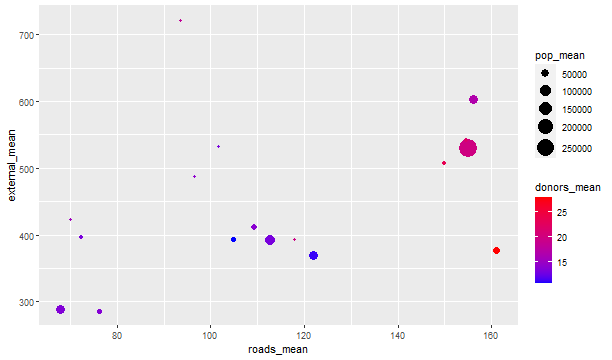
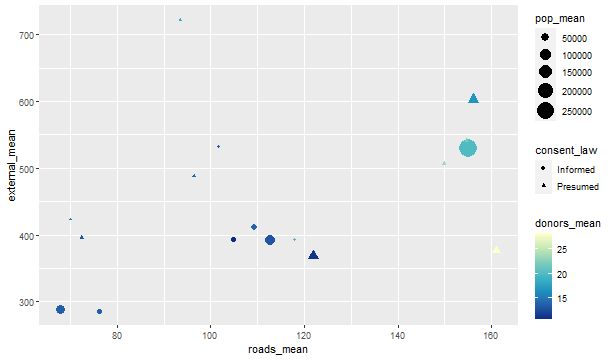
update lec 17

diff --git a/pstat10/lectures/Lec17.html b/pstat10/lectures/Lec17.html
@@ -4,7 +4,7 @@
     <title>Lecture 17: More on ggplot</title>
     <meta charset="utf-8" />
     <meta name="author" content="Robin Liu" />
-    <meta name="date" content="2022-07-19" />
+    <meta name="date" content="2022-07-20" />
     <script src="libs/header-attrs-2.14/header-attrs.js"></script>
     <link href="libs/remark-css-0.0.1/default.css" rel="stylesheet" />
     <link href="libs/remark-css-0.0.1/metropolis.css" rel="stylesheet" />
@@ -27,7 +27,7 @@ class: center, middle, inverse, title-slide
 ### UCSB
 ]
 .date[
-### 2022-07-19
+### 2022-07-20
 ]
 
 ---
@@ -42,24 +42,8 @@ install.packages("socviz")
 library(socviz)
 ```
 
----
-# Grouped data
-Recall whats in `gapminder`
+https://socviz.co/
 
-```r
-head(gapminder, 5)
-```
-
-```
-## # A tibble: 5 x 6
-##   country     continent  year lifeExp      pop gdpPercap
-##   &lt;fct&gt;       &lt;fct&gt;     &lt;int&gt;   &lt;dbl&gt;    &lt;int&gt;     &lt;dbl&gt;
-## 1 Afghanistan Asia       1952    28.8  8425333      779.
-## 2 Afghanistan Asia       1957    30.3  9240934      821.
-## 3 Afghanistan Asia       1962    32.0 10267083      853.
-## 4 Afghanistan Asia       1967    34.0 11537966      836.
-## 5 Afghanistan Asia       1972    36.1 13079460      740.
-```
 
 ---
 # Aesthetic mappings
@@ -72,7 +56,7 @@ p + geom_point(alpha = 0.3) +
     scale_x_log10(labels = scales::label_dollar())
 ```
 
-&lt;img src="Lec17_files/figure-html/unnamed-chunk-4-1.png" style="display: block; margin: auto;" /&gt;
+&lt;img src="Lec17_files/figure-html/unnamed-chunk-3-1.png" style="display: block; margin: auto;" /&gt;
 
 ---
 # Aesthetic mappings
@@ -85,7 +69,7 @@ p + geom_point(mapping = aes(x = gdpPercap, y=lifeExp), alpha = 0.3) +
     scale_x_log10(labels = scales::label_dollar())
 ```
 
-&lt;img src="Lec17_files/figure-html/unnamed-chunk-5-1.png" style="display: block; margin: auto;" /&gt;
+&lt;img src="Lec17_files/figure-html/unnamed-chunk-4-1.png" style="display: block; margin: auto;" /&gt;
 
 ---
 # Aesthetic mappings
@@ -108,7 +92,7 @@ p + geom_point(mapping = aes(x = gdpPercap, y=lifeExp), alpha = 0.3) +
 ## ! stat_smooth requires the following missing aesthetics: x and y
 ```
 
-&lt;img src="Lec17_files/figure-html/unnamed-chunk-6-1.png" style="display: block; margin: auto;" /&gt;
+&lt;img src="Lec17_files/figure-html/unnamed-chunk-5-1.png" style="display: block; margin: auto;" /&gt;
 
 The `x` and `y` aesthetics are *required* in `geom_smooth`.
 
@@ -124,7 +108,7 @@ p + geom_point(mapping = aes(x = gdpPercap, y=lifeExp), alpha = 0.3) +
     scale_x_log10(labels = scales::label_dollar())
 ```
 
-&lt;img src="Lec17_files/figure-html/unnamed-chunk-7-1.png" style="display: block; margin: auto;" /&gt;
+&lt;img src="Lec17_files/figure-html/unnamed-chunk-6-1.png" style="display: block; margin: auto;" /&gt;
 
 ---
 # Aesthetic mappings
@@ -139,7 +123,29 @@ p + geom_point(alpha = 0.3) +
     scale_x_log10(labels = scales::label_dollar())
 ```
 
-&lt;img src="Lec17_files/figure-html/unnamed-chunk-8-1.png" style="display: block; margin: auto;" /&gt;
+&lt;img src="Lec17_files/figure-html/unnamed-chunk-7-1.png" style="display: block; margin: auto;" /&gt;
+---
+class: inverse, center, middle
+# Grouped data
+---
+# Grouped data
+Recall whats in `gapminder`
+
+```r
+head(gapminder, 5)
+```
+
+```
+## # A tibble: 5 x 6
+##   country     continent  year lifeExp      pop gdpPercap
+##   &lt;fct&gt;       &lt;fct&gt;     &lt;int&gt;   &lt;dbl&gt;    &lt;int&gt;     &lt;dbl&gt;
+## 1 Afghanistan Asia       1952    28.8  8425333      779.
+## 2 Afghanistan Asia       1957    30.3  9240934      821.
+## 3 Afghanistan Asia       1962    32.0 10267083      853.
+## 4 Afghanistan Asia       1967    34.0 11537966      836.
+## 5 Afghanistan Asia       1972    36.1 13079460      740.
+```
+
 ---
 # Grouped data
 
@@ -270,8 +276,8 @@ p + geom_bar() +
 # Facets
 &lt;img src="Lec17_files/figure-html/unnamed-chunk-18-1.png" style="display: block; margin: auto;" /&gt;
 
-<div class="countdown" id="timer_62d78eb7" style="right:0;bottom:0;" data-warnwhen="0">
-<code class="countdown-time"><span class="countdown-digits minutes">01</span><span class="countdown-digits colon">:</span><span class="countdown-digits seconds">30</span></code>
+<div class="countdown" id="timer_62d832e3" style="right:0;bottom:0;" data-warnwhen="0">
+<code class="countdown-time"><span class="countdown-digits minutes">02</span><span class="countdown-digits colon">:</span><span class="countdown-digits seconds">00</span></code>
 </div>
 ---
 # geom_bar vs geom_col
@@ -279,7 +285,7 @@ p + geom_bar() +
 ```r
 gss_sm |&gt;
   ggplot(gss_sm, mapping = aes(y = fct_infreq(degree))) +
-    geom_bar()
+*  geom_bar() 
 ```
 
 &lt;img src="Lec17_files/figure-html/unnamed-chunk-19-1.png" style="display: block; margin: auto;" /&gt;
@@ -292,7 +298,7 @@ gss_sm |&gt;
   group_by(degree) |&gt;
   summarize(count = n()) |&gt;
   ggplot(mapping = aes(x = count, y = reorder(degree, count, decreasing = T))) +
-    geom_col()
+*  geom_col() 
 ```
 
 &lt;img src="Lec17_files/figure-html/unnamed-chunk-20-1.png" style="display: block; margin: auto;" /&gt;
@@ -506,12 +512,15 @@ p + geom_point() + geom_text_repel(mapping = aes(label = country))
 library(ggrepel)
 p &lt;- ggplot(data = by_country,
             mapping = aes(x = roads_mean, y = donors_mean))
-p + geom_point() + geom_text_repel(data = subset(by_country, donors_mean &gt; 22),
+p + geom_point() + geom_text_repel(data = filter(by_country, donors_mean &gt; 22),
                                    mapping = aes(label = country))
 ```
 
 &lt;img src="Lec17_files/figure-html/unnamed-chunk-33-1.png" style="display: block; margin: auto;" /&gt;
 
+---
+class: inverse, middle, center
+# Other aesthetics
 ---
 # Mapping other aesthetics
 
@@ -553,10 +562,11 @@ p + geom_point() + geom_text_repel(data = subset(by_country, donors_mean &gt; 22
 ```r
 p &lt;- ggplot(data = by_country,
             mapping = aes(x = roads_mean, y = external_mean,
-                          color = donors_mean, size = pop_mean))
+                          color = donors_mean, size = pop_mean,
+                          shape = consent_law))
 p + geom_point() +
   scale_size_area(max_size = 8) +
-  scale_colour_gradient(low = "blue", high = "red")
+  scale_colour_distiller(palette = "YlGnBu")
 ```
 
 &lt;img src="Lec17_files/figure-html/unnamed-chunk-35-1.png" style="display: block; margin: auto;" /&gt;
@@ -570,7 +580,7 @@ organdata |&gt;
   summarize(donors_mean = mean(donors, na.rm = T)) |&gt;
   ggplot(mapping = aes(x = donors_mean, y = country, fill = world)) +
     geom_col() +
-    scale_fill_brewer(type = "qual", palette = 7)
+    scale_fill_brewer(type = "qual")
 ```
 
 &lt;img src="Lec17_files/figure-html/unnamed-chunk-36-1.png" style="display: block; margin: auto;" /&gt;
